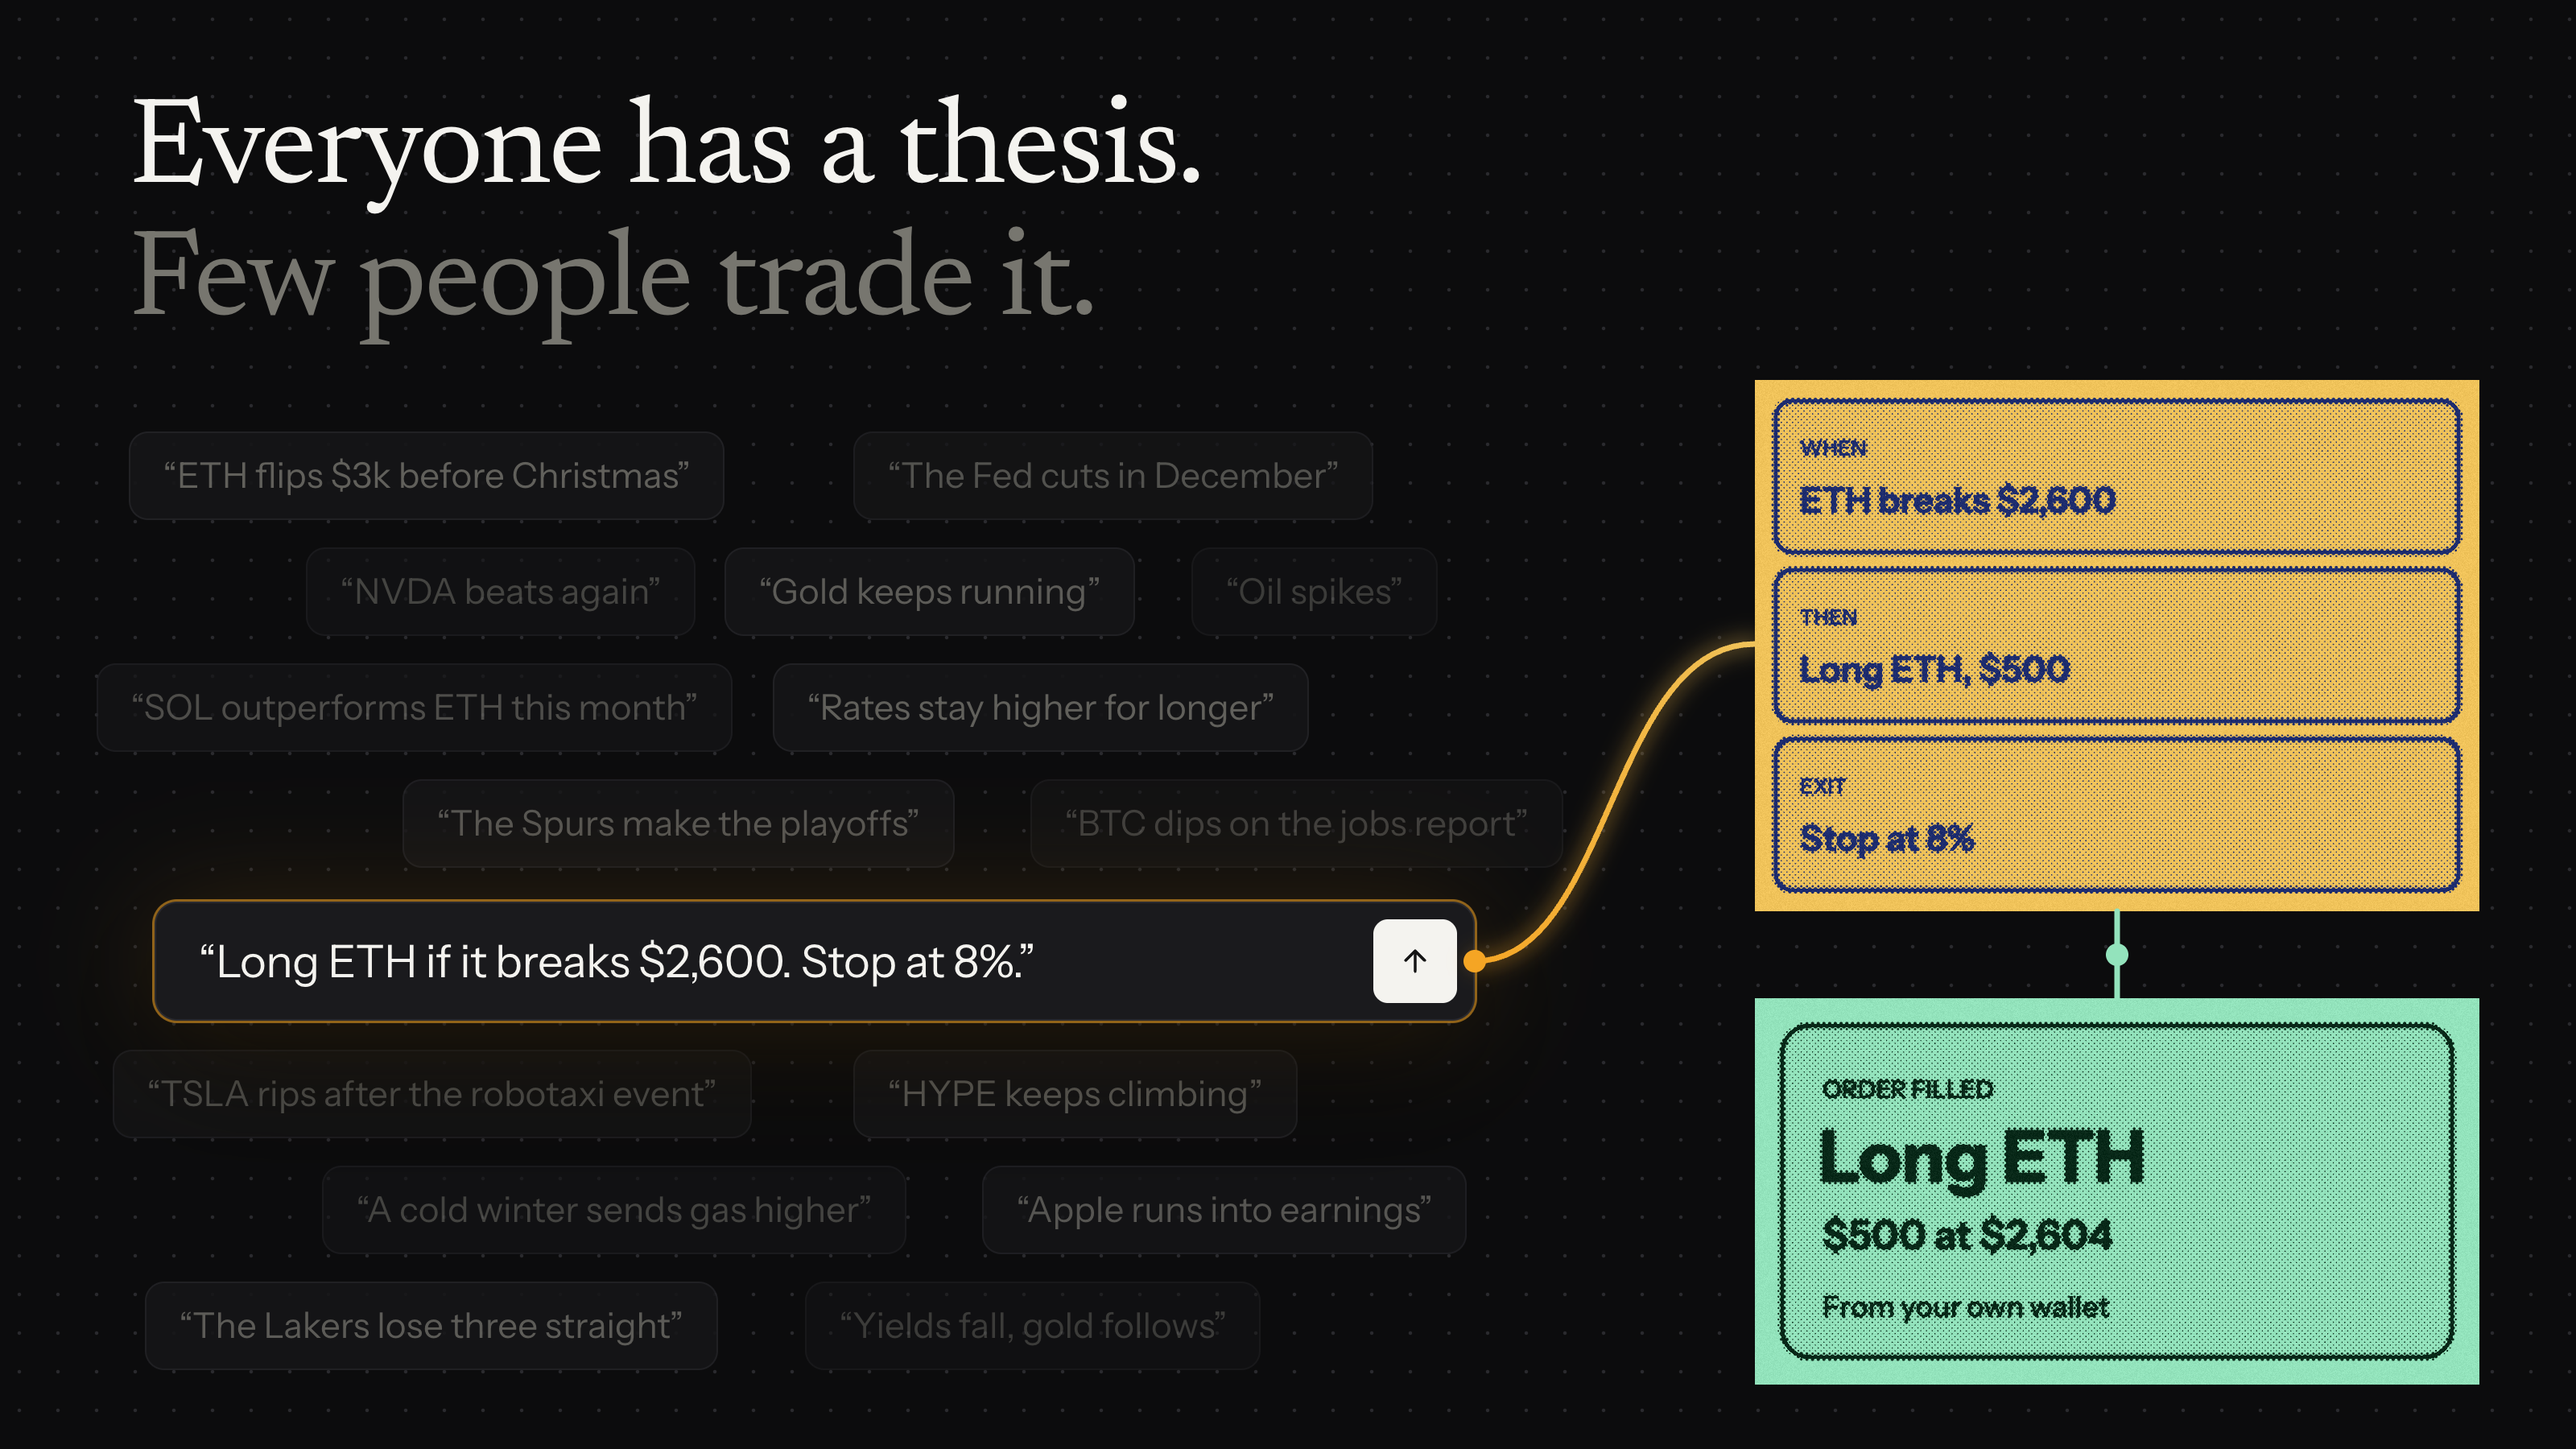
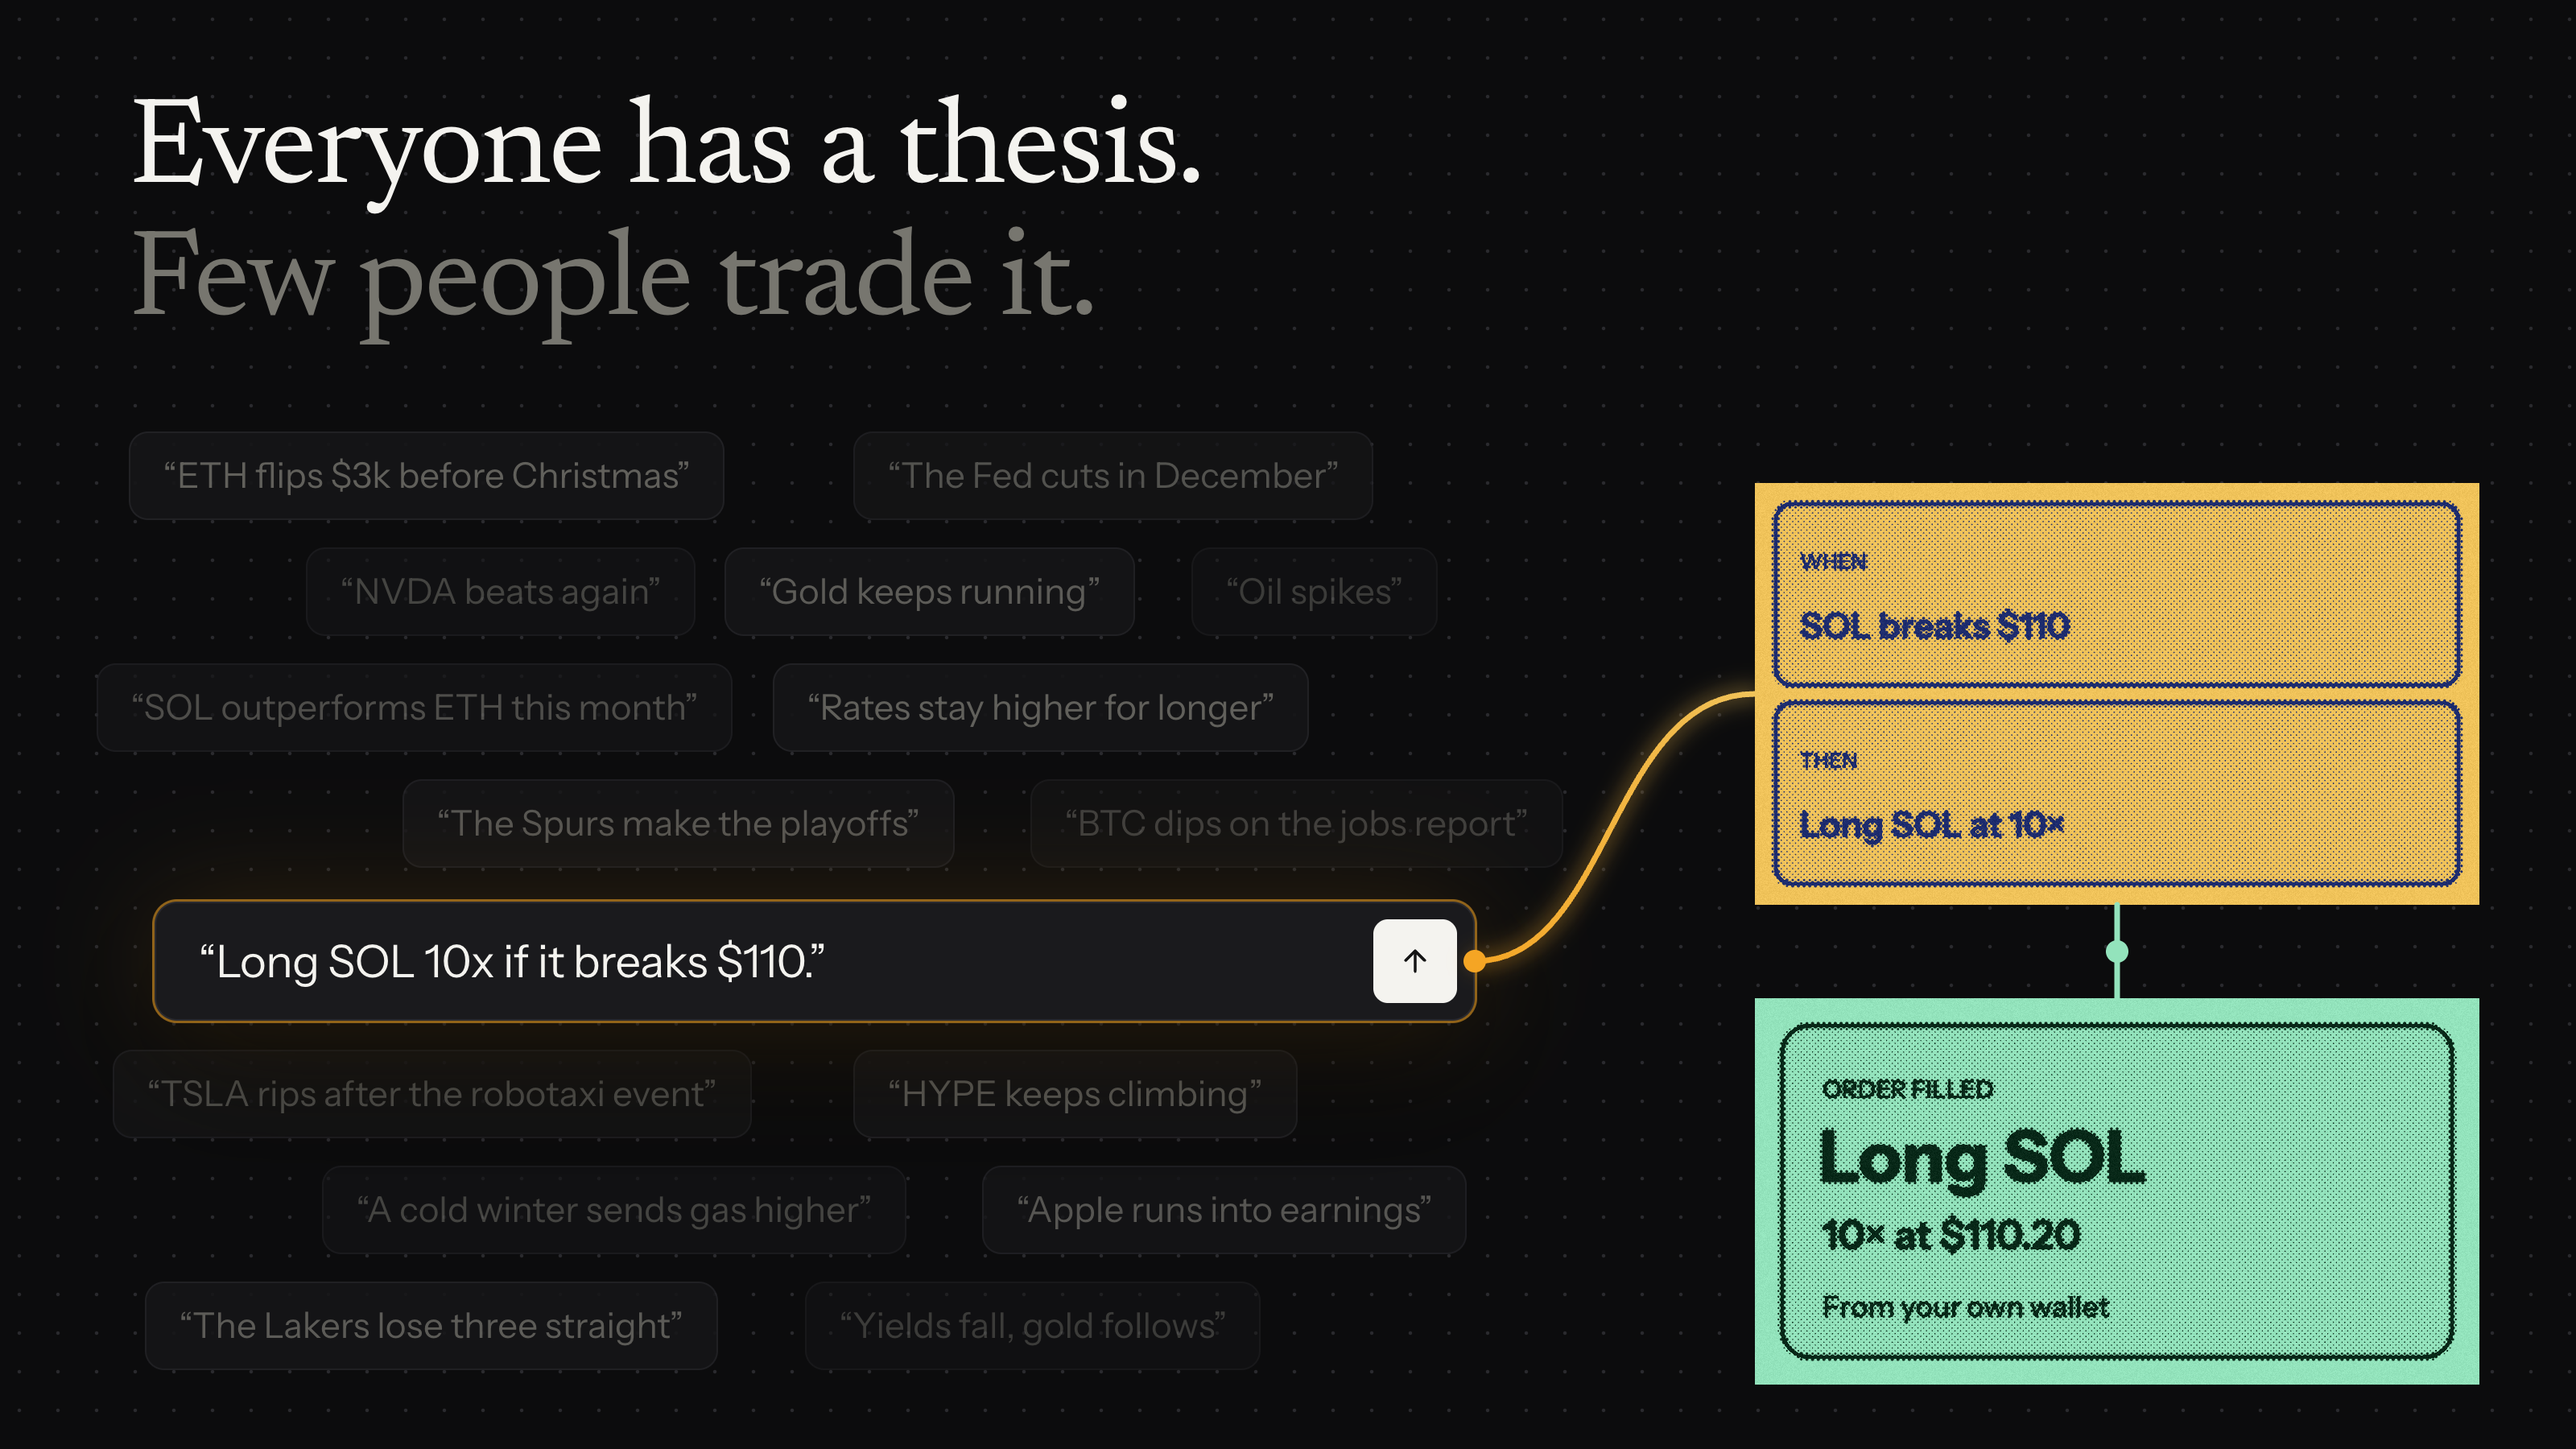
Thesis graphic: long SOL 10x if it breaks $110

diff --git a/content/x-banner/v2/banners.html b/content/x-banner/v2/banners.html
@@ -729,10 +729,10 @@ const BANNERS = {
     ];
     for (const [x, y, t, a] of IDEAS) div(`“${t}”`, `position:absolute;left:${x}px;top:${y}px;padding:13px 20px;border-radius:12px;background:#151517;border:1px solid #232327;font-size:22px;color:#6a6964;white-space:nowrap;opacity:${a}`);
     // the one that gets traded
-    const pr = div(`<div class="txt" style="font-size:28px">“Long ETH if it breaks $2,600. Stop at 8%.”</div><div class="btn send">${SEND("#141414")}</div>`, "left:96px;top:560px;width:820px;box-shadow:0 0 0 1.5px rgba(245,165,36,0.55),0 0 70px rgba(245,165,36,0.16),0 30px 80px rgba(0,0,0,0.55)");
+    const pr = div(`<div class="txt" style="font-size:28px">“Long SOL 10x if it breaks $110.”</div><div class="btn send">${SEND("#141414")}</div>`, "left:96px;top:560px;width:820px;box-shadow:0 0 0 1.5px rgba(245,165,36,0.55),0 0 70px rgba(245,165,36,0.16),0 30px 80px rgba(0,0,0,0.55)");
     pr.classList.add("prompt");
-    tile(1090, 236, 450, 330, drawMiniRules([["WHEN", "ETH breaks $2,600"], ["THEN", "Long ETH, $500"], ["EXIT", "Stop at 8%"]]), "amberBlue", o);
-    tile(1090, 620, 450, 240, fillTile("ORDER FILLED", "Long ETH", "$500 at $2,604", ["From your own wallet"]), "green", o);
+    tile(1090, 300, 450, 262, drawMiniRules([["WHEN", "SOL breaks $110"], ["THEN", "Long SOL at 10×"]]), "amberBlue", o);
+    tile(1090, 620, 450, 240, fillTile("ORDER FILLED", "Long SOL", "10× at $110.20", ["From your own wallet"]), "green", o);
     const sv = el("svg", { width: 1600, height: 900, style: "position:absolute;inset:0;pointer-events:none" }, $b);
     const defs = el("defs", {}, sv);
     const gr = el("linearGradient", { id: "thr", x1: "0", y1: "0", x2: "1", y2: "0" }, defs);
@@ -740,11 +740,11 @@ const BANNERS = {
     const gl = el("filter", { id: "thg", x: "-20%", y: "-50%", width: "140%", height: "200%" }, defs);
     el("feGaussianBlur", { stdDeviation: "6" }, gl);
     for (const [w, op, f] of [[10, 0.35, "url(#thg)"], [3.5, 1, ""]]) {
-      el("path", { d: "M 916 597 C 1000 597 1000 400 1090 400", stroke: "url(#thr)", "stroke-width": w, fill: "none", "stroke-linecap": "round", opacity: op, ...(f ? { filter: f } : {}) }, sv);
-      el("path", { d: "M 1315 566 L 1315 620", stroke: "#93e3bc", "stroke-width": w, fill: "none", "stroke-linecap": "round", opacity: op, ...(f ? { filter: f } : {}) }, sv);
+      el("path", { d: "M 916 597 C 1000 597 1000 431 1090 431", stroke: "url(#thr)", "stroke-width": w, fill: "none", "stroke-linecap": "round", opacity: op, ...(f ? { filter: f } : {}) }, sv);
+      el("path", { d: "M 1315 562 L 1315 620", stroke: "#93e3bc", "stroke-width": w, fill: "none", "stroke-linecap": "round", opacity: op, ...(f ? { filter: f } : {}) }, sv);
     }
     el("circle", { cx: 916, cy: 597, r: 7, fill: "#f5a524" }, sv);
-    el("circle", { cx: 1315, cy: 593, r: 7, fill: "#93e3bc" }, sv);
+    el("circle", { cx: 1315, cy: 591, r: 7, fill: "#93e3bc" }, sv);
   },
 
   copy() {
